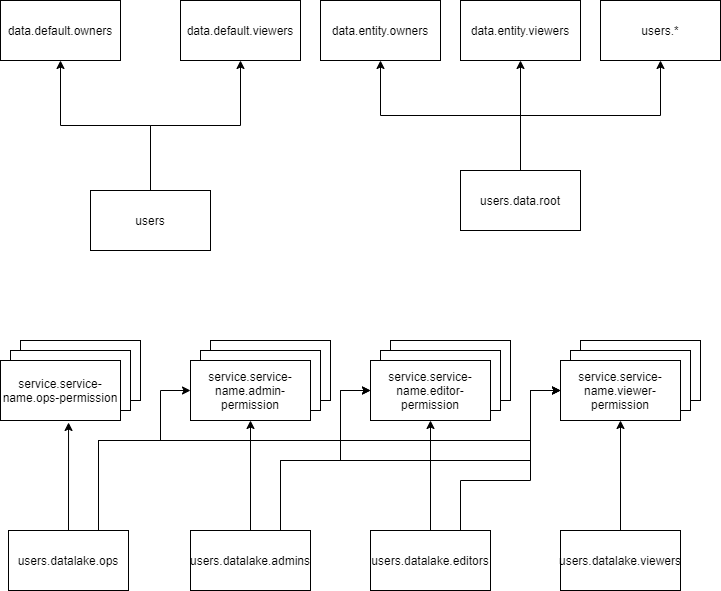
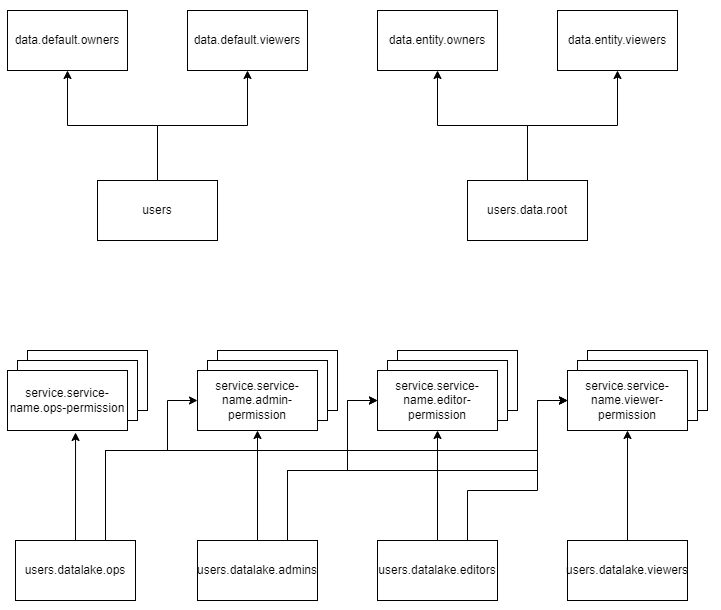
Update bootstrap Docs to match with existing workflow

diff --git a/docs/bootstrap/bootstrap-groups-structure.md b/docs/bootstrap/bootstrap-groups-structure.md
@@ -16,7 +16,7 @@ The following table illustrates all the groups created in the POST /tenant-provi
 | Group Category | Group Names | Description |
 | -------------- | ----------- | ----------- |
 | Root user group | users | A group contains all users of the partition, the identity needs to belong to this group to access the partition |
-| Data admin group | users.data.root | A group will be automatically added to all data and user groups so that the member of it has the permission to all data on the partition |
+| Data admin group | users.data.root | A group will be automatically added to all data groups so that the member of it has the permission to all data on the partition |
 | Basic Core permission groups | users.datalake.ops <br> users.datalake.admins <br> users.datalake.editors <br> users.datalake.viewers | The wrapped core permission groups, the identity needs to belong to one of them to access the partition |
 | Default data group | data.default.owners <br> data.default.viewers | The default data groups for a partition and all users of the partition can access it |
 | Service groups | service.storage.admin <br> service.storage.creator <br> service.storage.viewer <br> service.search.admin <br> service.search.user <br> service.entitlements.admin <br> service.entitlements.user <br> service.legal.admin <br> service.legal.editor <br> service.legal.user <br> service.plugin.user <br> service.messaging.user <br> service.schema-service.admin <br> service.schema-service.editors <br> service.schema-service.viewers <br> service.file.editors <br> service.file.viewers <br> service.workflow.admin <br> service.workflow.creator <br> service.workflow.viewer <br> service.document.viewer <br> service.index-document.user <br> service.content-extractor.user <br> service.gis-dl-transformation.user <br> service.gis-dl-ingestion.user <br> service.image-classification-classify.user <br> service.image-classification-train.user <br> service.form-extractor.user <br> service.mapping-service.editors <br> service.mapping-service.viewers | Service groups for different OSDU services |
